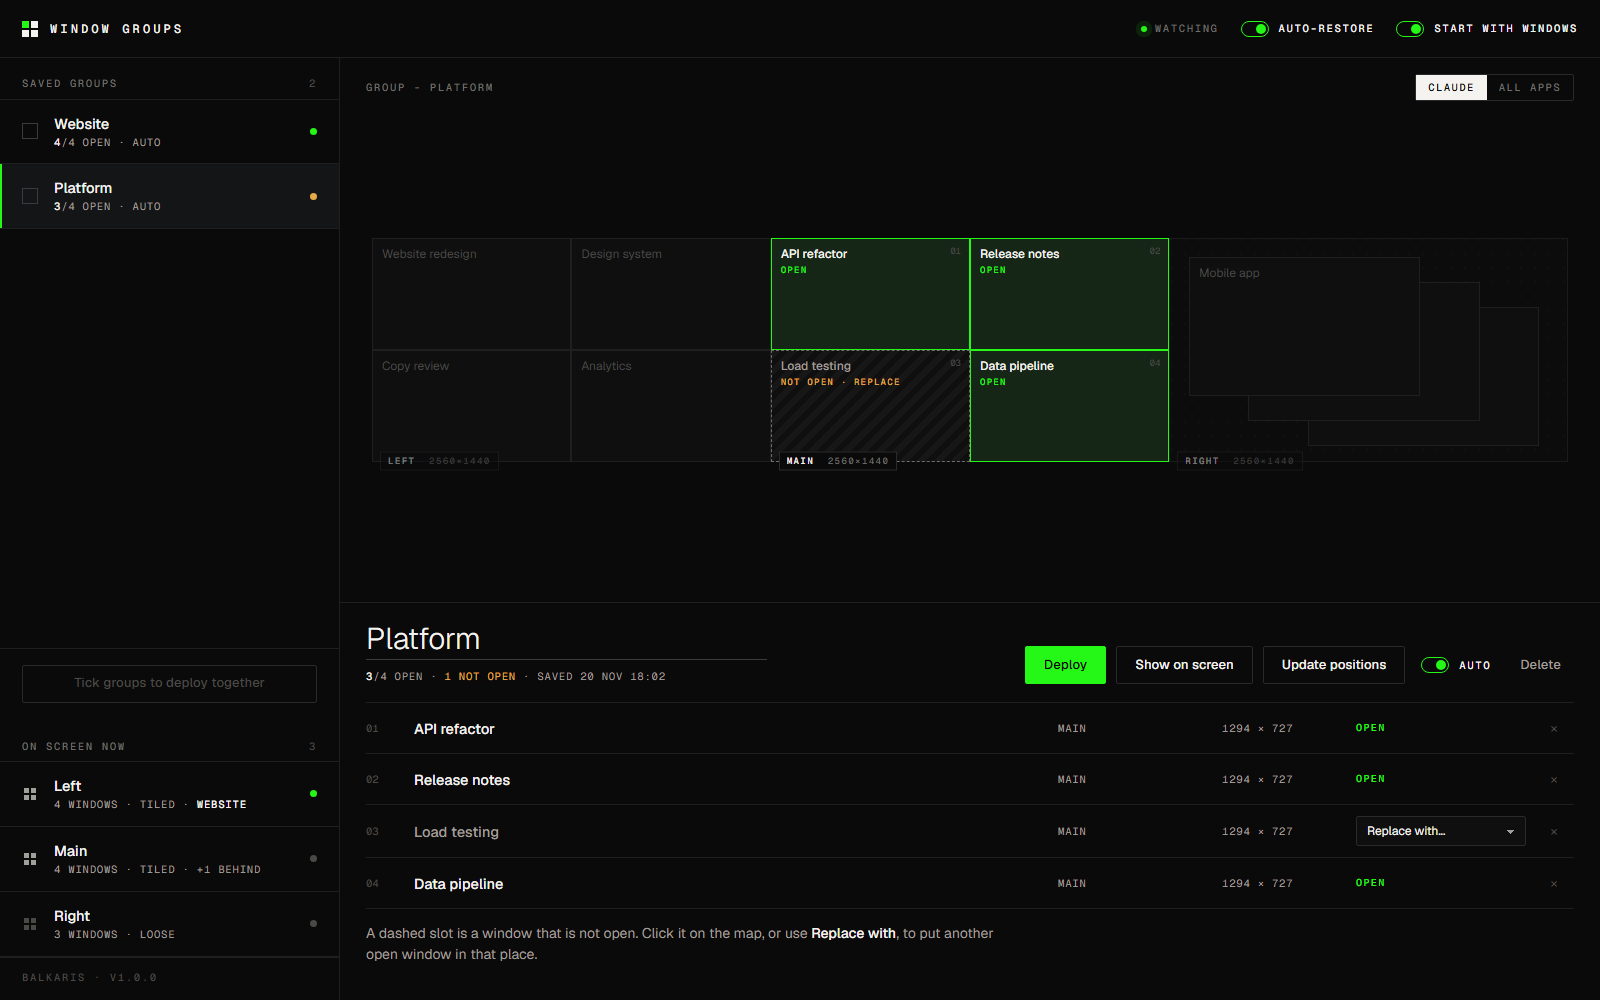
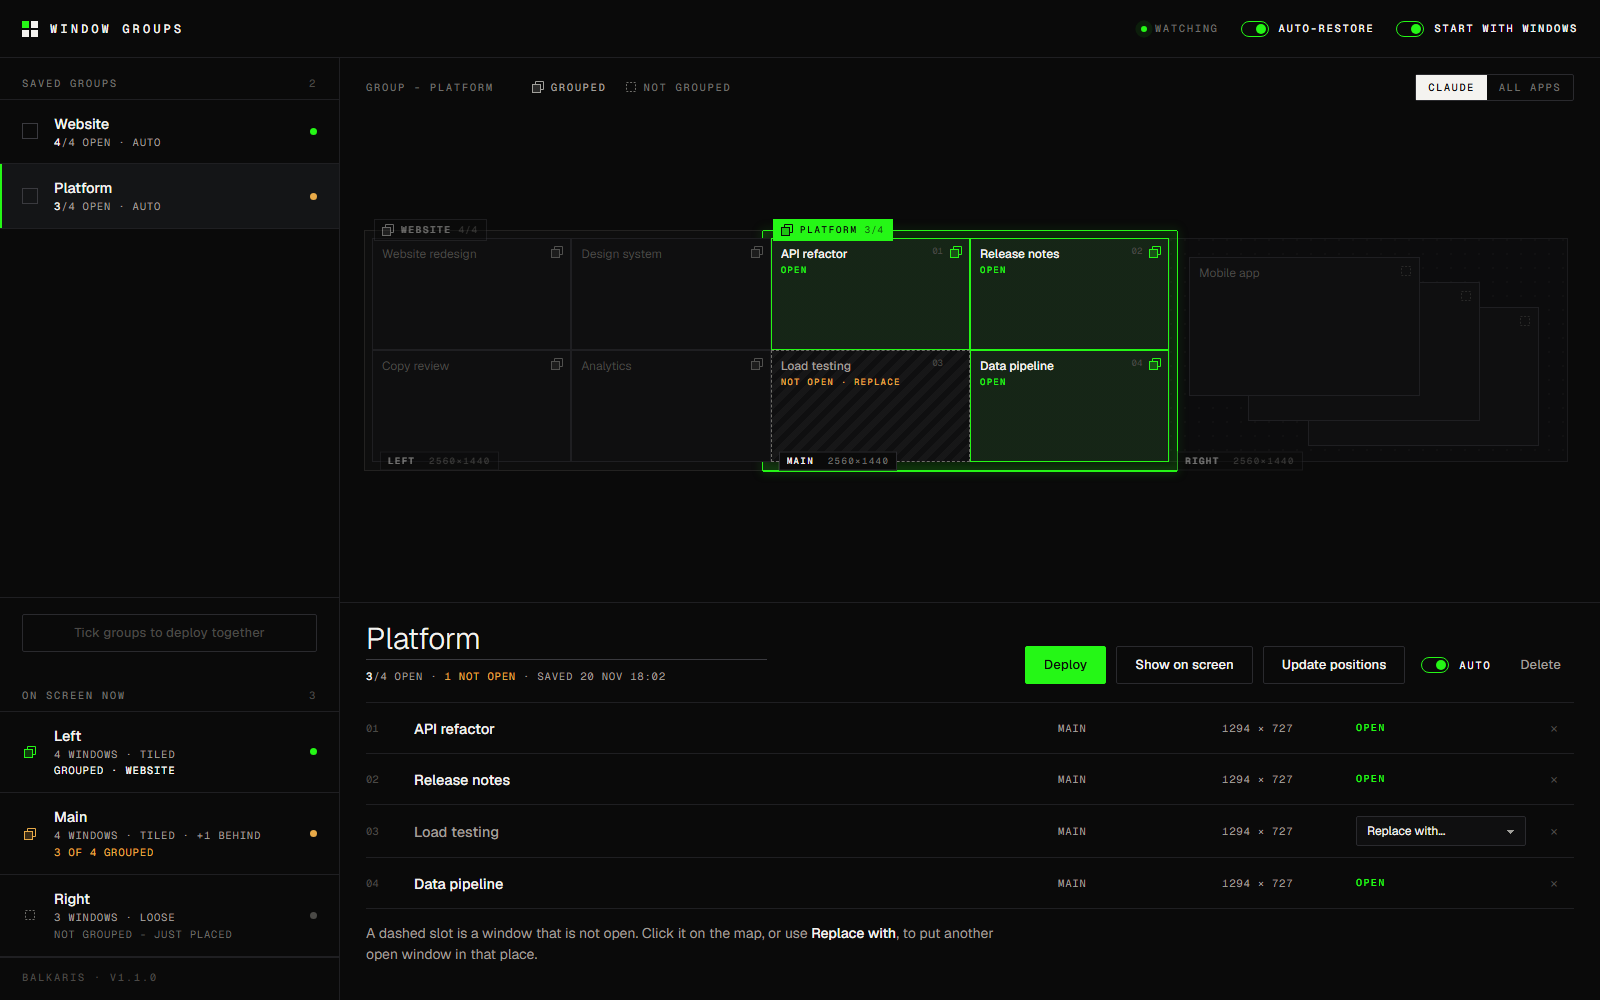
Show what is grouped and what is just placed
Every saved group now gets a layer on the map: a frame that follows the exact outline of
its windows, with the group's name on it. A bounding box was tried first and rejected - it
swallowed a window sitting between two members and made it look grouped. Each window
carries an icon, grouped or not grouped, and On screen now says it in words.

Selecting a group, selecting the screen it is on, or hovering it in the list lights its
layer up; everything else steps back. A group's name tag on the map opens it.

The lists no longer rewrite themselves on every two-second refresh unless something
changed - that destroyed hover states and could swallow a click.

diff --git a/src/ui/index.html b/src/ui/index.html
@@ -156,7 +156,40 @@
   .tile.missing .t { color: var(--mute); }
   .tile.missing .s { color: var(--amber); }
   .tile.missing:hover { border-color: var(--amber); }
-  .tile .n { position: absolute; right: 8px; top: 8px; font: 500 9px/1 var(--mono); color: var(--mute-3); }
+  .tile .n { position: absolute; right: 26px; top: 8px; font: 500 9px/1 var(--mono); color: var(--mute-3); }
+  .tile .t { padding-right: 16px; }
+
+  /* grouped / not grouped */
+  .ico { width: 12px; height: 12px; flex: none; display: inline-block; vertical-align: -2px; }
+  .gi { position: absolute; right: 7px; top: 7px; line-height: 0; color: var(--mute-3); }
+  .gi.g { color: var(--mute); }
+  .tile.on .gi.g, .tile.hl .gi.g { color: var(--signal); }
+  .tile.hl { border-color: rgba(37,247,22,.55); }
+  .tile.loose .s { color: var(--mute-3); }
+  .tile.ghost .gi { opacity: .45; }
+
+  /* the group layer: one frame behind all of a group's windows on a screen */
+  .layers { position: absolute; inset: 0; width: 100%; height: 100%; pointer-events: none; overflow: visible; }
+  .layers .lf { fill: rgba(244,243,240,.07); shape-rendering: crispEdges; }
+  .layers .le { fill: none; stroke: #5d5c57; stroke-width: 1; shape-rendering: crispEdges; }
+  .layers .on .lf { fill: rgba(37,247,22,.11); }
+  .layers .on .le { stroke: var(--signal); stroke-width: 1.5; filter: drop-shadow(0 0 5px rgba(37,247,22,.5)); }
+  .layers .dim { opacity: .3; }
+  .gl { position: absolute; z-index: 6; transform: translateY(-50%); display: inline-flex; align-items: center; gap: 7px;
+        padding: 4px 8px 4px 7px; background: var(--ink); border: 1px solid var(--line-3);
+        font: 500 9.5px/1 var(--mono); letter-spacing: .16em; text-transform: uppercase; color: var(--paper); white-space: nowrap; cursor: pointer; }
+  .gl:hover { border-color: var(--mute); }
+  .gl i { font-style: normal; color: var(--mute-2); letter-spacing: .08em; }
+  .gl.on { background: var(--signal); border-color: var(--signal); color: var(--ink); }
+  .gl.on i { color: rgba(10,10,10,.6); }
+  .gl.dim { opacity: .4; }
+
+  .state { width: 16px; display: grid; place-items: center; color: var(--mute-2); }
+  .state.g { color: var(--signal); }
+  .state.p { color: var(--amber); }
+  .legend { display: flex; gap: 18px; margin-left: 22px; }
+  .lg { display: inline-flex; align-items: center; gap: 7px; color: var(--mute-2); }
+  .lg.g { color: var(--mute); }
   .empty-stage { position: absolute; inset: 0; display: grid; place-items: center; color: var(--mute-2); }
 
   /* ---------- detail */
@@ -227,6 +260,7 @@
     <main>
       <div class="bar">
         <span class="cap" id="viewLabel">Everything on screen</span>
+        <span class="legend cap"><span class="lg g" id="lgG"></span><span class="lg" id="lgU"></span></span>
         <div class="spacer"></div>
         <div class="seg" id="scope"><button data-s="claude">Claude</button><button data-s="all">All apps</button></div>
       </div>
@@ -251,6 +285,21 @@ let scopeTouched = !!localStorage.getItem("wg.scope");
 const picked = new Set();           // handles picked in the live view
 const ticked = new Set(JSON.parse(localStorage.getItem("wg.ticked") || "[]"));
 let pop = null;
+let hoverGroup = null;              // group row under the mouse: lit up on the map
+
+// Grouped: two stacked frames, the front one filled. Not grouped: one dashed frame.
+const ICON_GROUPED = '<svg class="ico" viewBox="0 0 12 12" aria-hidden="true"><path d="M3.5 3V.5h8v8H9" fill="none" stroke="currentColor"/><rect x=".5" y="3.5" width="8" height="8" fill="currentColor" fill-opacity=".22" stroke="currentColor"/></svg>';
+const ICON_LOOSE = '<svg class="ico" viewBox="0 0 12 12" aria-hidden="true"><rect x="1.5" y="1.5" width="9" height="9" fill="none" stroke="currentColor" stroke-dasharray="2 1.6"/></svg>';
+
+// Which saved groups each open window belongs to.
+function membership() {
+  const m = new Map();
+  for (const g of S.groups) for (const s of g.slots) if (s.open && s.h) {
+    if (!m.has(s.h)) m.set(s.h, []);
+    m.get(s.h).push(g);
+  }
+  return m;
+}
 
 // ------------------------------------------------------------------ server
 async function getState() {
@@ -372,6 +421,7 @@ function renderGroups() {
 function renderDetected() {
   const el = $("#detected");
   const ds = detectedInScope();
+  const mem = membership();
   $("#dCount").textContent = ds.length || "";
   if (!ds.length) {
     setHTML(el, '<div style="padding:0 22px 16px" class="hint">No screen has two or more ' + (scope === "all" ? "" : "Claude ") + 'windows on it right now.</div>');
@@ -379,14 +429,87 @@ function renderDetected() {
   }
   setHTML(el, ds.map(d => {
     const sel = view.kind === "detected" && view.mon === d.mon;
+    const k = d.handles.filter(h => mem.has(h)).length, all = d.handles.length;
+    const st = d.savedAs || k === all ? "g" : k > 0 ? "p" : "u";
+    const said = d.savedAs ? 'Grouped &middot; <b>' + esc(d.savedAs) + '</b>'
+               : k === all ? 'Grouped' : k > 0 ? k + ' of ' + all + ' grouped' : 'Not grouped - just placed';
     return '<div class="row' + (sel ? " sel" : "") + '" data-mon="' + d.mon + '">' +
-      '<div class="glyph' + (d.tiled ? " tiled" : "") + '"><i></i><i></i><i></i><i></i></div>' +
+      '<div class="state ' + st + '">' + (st === "u" ? ICON_LOOSE : ICON_GROUPED) + '</div>' +
       '<div style="min-width:0"><div class="name">' + esc(d.monName) + '</div>' +
-      '<div class="meta">' + plural(d.handles.length, "window") + ' &middot; ' + (d.tiled ? "tiled" : "loose") +
-      (d.behind ? ' &middot; +' + d.behind + ' behind' : '') +
-      (d.savedAs ? ' &middot; <b>' + esc(d.savedAs) + '</b>' : '') + '</div></div>' +
-      '<div class="dot' + (d.savedAs ? " all" : "") + '"></div></div>';
+      '<div class="meta">' + plural(all, "window") + ' &middot; ' + (d.tiled ? "tiled" : "loose") +
+      (d.behind ? ' &middot; +' + d.behind + ' behind' : '') + '</div>' +
+      '<div class="meta" style="color:' + (st === "g" ? "var(--paper)" : st === "p" ? "var(--amber)" : "var(--mute-2)") + '">' + said + '</div></div>' +
+      '<div class="dot' + (st === "g" ? " all" : st === "p" ? " some" : "") + '"></div></div>';
   }).join(""));
+}
+
+// The group layer: a frame drawn BEHIND all of a group's windows, one per screen it covers,
+// with the group's name on it - so a group reads as one thing, and windows that are merely
+// placed next to each other plainly do not have one. The selected group's layer is drawn from
+// its saved slots (including any that are not open); every other group's from where its
+// windows actually are.
+function groupLayers(g, active, dimOthers) {
+  const pad = 8;
+  let paths = "", labels = "";
+  for (const gr of S.groups) {
+    const rects = [];
+    const fromSlots = view.kind === "group" && view.id === gr.id;
+    for (const sl of gr.slots) {
+      let r = null;
+      if (fromSlots) r = { mon: sl.mon, x: sl.x + 7, y: sl.y, w: sl.w - 14, h: sl.h2 - 7 };
+      else if (sl.open) {
+        const w = winByH(sl.h);
+        if (w && !w.min && (scope === "all" || w.claude)) r = { mon: w.mon, x: w.vx, y: w.vy, w: w.vw, h: w.vh };
+      }
+      if (r) rects.push({ mon: r.mon, l: g.X(r.x) - pad, t: g.Y(r.y) - pad, r: g.X(r.x + r.w) + pad, b: g.Y(r.y + r.h) + pad });
+    }
+    if (!rects.length) continue;
+    const on = active.has(gr.id), dim = dimOthers && !on;
+    const cls = (on ? "on" : "") + (dim ? " dim" : "");
+    const u = unionOutline(rects);
+    paths += '<g class="' + cls + '"><path class="lf" d="' + u.fill + '"/><path class="le" d="' + u.edges + '"/></g>';
+    // one name tag per screen the group covers, on its top-left window
+    const firsts = new Map();
+    for (const r of rects) {
+      const f = firsts.get(r.mon);
+      if (!f || r.t < f.t - 2 || (Math.abs(r.t - f.t) <= 2 && r.l < f.l)) firsts.set(r.mon, r);
+    }
+    for (const r of firsts.values())
+      labels += '<span class="gl ' + cls + '" data-gsel="' + esc(gr.id) + '" title="Open this group" style="left:' + (r.l + 10).toFixed(1) + 'px;top:' + r.t.toFixed(1) + 'px">' +
+                ICON_GROUPED + esc(gr.name) + ' <i>' + gr.open + '/' + gr.slots.length + '</i></span>';
+  }
+  return { html: paths ? '<svg class="layers">' + paths + '</svg>' : "", labels };
+}
+
+// The exact outline of a set of overlapping rectangles. A bounding box around a group would
+// swallow a window that merely sits between two of its members and make it look grouped; the
+// layer has to follow the group's windows and nothing else. Every rectangle edge cuts the plane
+// into a small grid, each cell is in or out, and an outline edge is wherever an "in" cell meets
+// an "out" one. A dozen windows make a few hundred cells - nothing.
+function unionOutline(rects) {
+  const xs = [...new Set(rects.flatMap(r => [r.l, r.r]))].sort((a, b) => a - b);
+  const ys = [...new Set(rects.flatMap(r => [r.t, r.b]))].sort((a, b) => a - b);
+  const cells = [];
+  for (let i = 0; i < xs.length - 1; i++) {
+    cells.push([]);
+    for (let j = 0; j < ys.length - 1; j++) {
+      const cx = (xs[i] + xs[i + 1]) / 2, cy = (ys[j] + ys[j + 1]) / 2;
+      cells[i].push(rects.some(r => cx > r.l && cx < r.r && cy > r.t && cy < r.b));
+    }
+  }
+  const inside = (i, j) => i >= 0 && j >= 0 && i < cells.length && j < cells[0].length && cells[i][j];
+  const f = v => v.toFixed(1);
+  let fill = "", edges = "";
+  for (let i = 0; i < cells.length; i++) for (let j = 0; j < cells[i].length; j++) {
+    if (!cells[i][j]) continue;
+    const x1 = f(xs[i]), x2 = f(xs[i + 1]), y1 = f(ys[j]), y2 = f(ys[j + 1]);
+    fill += "M" + x1 + " " + y1 + "H" + x2 + "V" + y2 + "H" + x1 + "Z";
+    if (!inside(i - 1, j)) edges += "M" + x1 + " " + y1 + "V" + y2;
+    if (!inside(i + 1, j)) edges += "M" + x2 + " " + y1 + "V" + y2;
+    if (!inside(i, j - 1)) edges += "M" + x1 + " " + y1 + "H" + x2;
+    if (!inside(i, j + 1)) edges += "M" + x1 + " " + y2 + "H" + x2;
+  }
+  return { fill, edges };
 }
 
 // The map: every screen to scale, windows drawn where they really are.
@@ -401,16 +524,23 @@ function geometry() {
   return { s, X: x => ox + (x - minX) * s, Y: y => oy + (y - minY) * s };
 }
 
-function tileHtml(cls, g, x, y, w, h, title, sub, attrs, n) {
+function tileHtml(cls, g, x, y, w, h, title, sub, attrs, n, mark) {
   const W = Math.max(14, w * g.s), H = Math.max(14, h * g.s);
   const small = W < 90 || H < 46;
   return '<div class="tile ' + cls + '" ' + (attrs || "") + ' style="left:' + g.X(x).toFixed(1) + 'px;top:' + g.Y(y).toFixed(1) +
     'px;width:' + W.toFixed(1) + 'px;height:' + H.toFixed(1) + 'px">' +
+    (mark && W >= 26 ? '<span class="gi ' + mark + '" title="' + (mark === "g" ? "In a saved group" : "Not in any group") + '">' + (mark === "g" ? ICON_GROUPED : ICON_LOOSE) + '</span>' : '') +
     (n ? '<span class="n">' + n + '</span>' : '') +
     (small ? '' : '<div class="t">' + esc(title) + '</div>' + (sub ? '<div class="s">' + sub + '</div>' : '')) + '</div>';
 }
 
+function renderLegend() {
+  setHTML($("#lgG"), ICON_GROUPED + "Grouped");
+  setHTML($("#lgU"), ICON_LOOSE + "Not grouped");
+}
+
 function renderStage() {
+  renderLegend();
   const c = $("#canvas");
   if (!S.monitors.length) { setHTML(c, ""); return; }
   const g = geometry();
@@ -426,29 +556,48 @@ function renderStage() {
   }
 
   const wins = winsInScope().filter(w => !w.min).sort((a, b) => b.z - a.z);   // bottom of the stack drawn first
+  const mem = membership();
+  const names = h => esc((mem.get(h) || []).map(x => x.name).join(" / "));
+
+  // Which group is lit: the one selected, the one whose screen is selected, the one hovered.
+  const active = new Set();
+  if (view.kind === "group") active.add(view.id);
+  if (view.kind === "detected") {
+    const d = detectedInScope().find(x => x.mon === view.mon);
+    const gr = d && d.savedAs && S.groups.find(x => x.name === d.savedAs);
+    if (gr) active.add(gr.id);
+  }
+  if (hoverGroup) active.add(hoverGroup);
+  const L = groupLayers(g, active, view.kind === "group");
+  html += L.html; labels += L.labels;
+
   if (view.kind === "live") {
     for (const w of wins) {
-      const on = picked.has(w.h);
-      html += tileHtml("pick" + (on ? " on" : ""), g, w.vx, w.vy, w.vw, w.vh, w.title, on ? "picked" : (w.max ? "maximized" : ""), 'data-pick="' + w.h + '"');
+      const on = picked.has(w.h), gs = mem.get(w.h);
+      const lit = gs && gs.some(x => active.has(x.id));
+      const sub = on ? "picked" : gs ? names(w.h) : (w.max ? "maximized &middot; not grouped" : "not grouped");
+      html += tileHtml("pick" + (on ? " on" : "") + (lit ? " hl" : "") + (gs ? "" : " loose"), g, w.vx, w.vy, w.vw, w.vh, w.title, sub,
+                       'data-pick="' + w.h + '"', null, gs ? "g" : "u");
     }
   } else if (view.kind === "detected") {
     const d = detectedInScope().find(x => x.mon === view.mon);
     const set = new Set(d ? d.handles : []);
     for (const w of wins) {
-      if (set.has(w.h)) html += tileHtml("on", g, w.vx, w.vy, w.vw, w.vh, w.title, "open", "");
-      else html += tileHtml("ghost", g, w.vx, w.vy, w.vw, w.vh, w.title, "", "");
+      const gs = mem.get(w.h);
+      if (set.has(w.h)) html += tileHtml("on" + (gs ? "" : " loose"), g, w.vx, w.vy, w.vw, w.vh, w.title, gs ? names(w.h) : "not grouped", "", null, gs ? "g" : "u");
+      else html += tileHtml("ghost", g, w.vx, w.vy, w.vw, w.vh, w.title, "", "", null, gs ? "g" : "u");
     }
   } else if (view.kind === "group") {
     const gr = S.groups.find(x => x.id === view.id);
     const used = new Set(gr ? gr.slots.filter(s => s.open).map(s => s.h) : []);
-    for (const w of wins) if (!used.has(w.h)) html += tileHtml("ghost", g, w.vx, w.vy, w.vw, w.vh, w.title, "", "");
+    for (const w of wins) if (!used.has(w.h)) html += tileHtml("ghost", g, w.vx, w.vy, w.vw, w.vh, w.title, "", "", null, mem.has(w.h) ? "g" : "u");
     if (gr) {
       const order = gr.slots.slice().sort((a, b) => b.z - a.z);
       for (const s of order) {
         const n = String(s.i + 1).padStart(2, "0");
         // a slot's rect includes the invisible 7px resize border; draw the visible part
         const x = s.x + 7, y = s.y, w = s.w - 14, h = s.h2 - 7;
-        if (s.open) html += tileHtml("on", g, x, y, w, h, s.title, "open", 'data-slot="' + s.i + '"', n);
+        if (s.open) html += tileHtml("on", g, x, y, w, h, s.title, "open", 'data-slot="' + s.i + '"', n, "g");
         else html += tileHtml("missing", g, x, y, w, h, s.title, "not open &middot; replace", 'data-miss="' + s.i + '"', n);
       }
     }
@@ -463,7 +612,10 @@ function renderDetail() {
     const n = picked.size;
     setHTML(el,
       '<div class="dhead"><div><div class="dtitle">' + (n ? plural(n, "window") + " picked" : "Pick windows on the map") + '</div>' +
-      '<div class="dmeta meta">' + plural(winsInScope().length, "window") + ' open &middot; ' + plural(S.monitors.length, "screen") + '</div></div>' +
+      '<div class="dmeta meta">' + plural(winsInScope().length, "window") + ' open &middot; ' +
+        (() => { const mem = membership(); const k = winsInScope().filter(w => mem.has(w.h)).length;
+                 return '<b>' + k + '</b> grouped &middot; ' + (winsInScope().length - k) + ' not grouped'; })() +
+        ' &middot; ' + plural(S.monitors.length, "screen") + '</div></div>' +
       '<div class="actions">' +
         (n ? '<input id="newName" class="btn" style="width:220px;cursor:text" placeholder="Name this group" autocomplete="off">' : '') +
         '<button class="btn primary" id="savePicked"' + (n ? "" : " disabled") + '>Save as group</button>' +
@@ -542,6 +694,13 @@ $("#groups").addEventListener("dblclick", e => {
   const r = e.target.closest("[data-id]");
   if (r && !e.target.closest("[data-tick]")) run("deploy", { ids: [r.getAttribute("data-id")] });
 });
+$("#groups").addEventListener("mouseover", e => {
+  const r = e.target.closest("[data-id]");
+  const id = r ? r.getAttribute("data-id") : null;
+  if (id !== hoverGroup) { hoverGroup = id; renderStage(); }
+});
+$("#groups").addEventListener("mouseleave", () => { if (hoverGroup) { hoverGroup = null; renderStage(); } });
+
 $("#detected").addEventListener("click", e => {
   const r = e.target.closest("[data-mon]");
   if (r) { view = { kind: "detected", mon: +r.getAttribute("data-mon") }; closePop(); render(); }
@@ -559,6 +718,8 @@ $("#swAuto").addEventListener("click", () => run("setting", { key: "autoRestore"
 $("#swStart").addEventListener("click", () => run("setting", { key: "startWithWindows", value: !S.settings.startWithWindows }));
 
 $("#canvas").addEventListener("click", e => {
+  const gl = e.target.closest("[data-gsel]");
+  if (gl) { view = { kind: "group", id: gl.getAttribute("data-gsel") }; closePop(); render(); return; }
   const p = e.target.closest("[data-pick]");
   if (p) { const h = p.getAttribute("data-pick"); picked.has(h) ? picked.delete(h) : picked.add(h); render(); return; }
   const m = e.target.closest("[data-miss]");

diff --git a/tools/demo_server.py b/tools/demo_server.py
@@ -30,7 +30,7 @@ for g in G: g["open"] = sum(s["open"] for s in g["slots"])
 D = [dict(mon=0, monName="Left", tiled=True, coverage=1, behind=0, handles=[w["h"] for w in W if w["mon"] == 0], savedAs="Website"),
      dict(mon=1, monName="Main", tiled=True, coverage=1, behind=1, handles=[w["h"] for w in W if w["mon"] == 1], savedAs=None),
      dict(mon=2, monName="Right", tiled=False, coverage=.7, behind=0, handles=[w["h"] for w in W if w["mon"] == 2], savedAs=None)]
-STATE = dict(monitors=M, windows=W, groups=G, detected=D, detectedAll=D, settings=dict(autoRestore=True, startWithWindows=True), claudeFound=True, version="1.0.0")
+STATE = dict(monitors=M, windows=W, groups=G, detected=D, detectedAll=D, settings=dict(autoRestore=True, startWithWindows=True), claudeFound=True, version="1.1.0")
 class H(http.server.BaseHTTPRequestHandler):
     def send(self, code, body, ct):
         b = body.encode(); self.send_response(code); self.send_header("Content-Type", ct); self.send_header("Content-Length", str(len(b))); self.end_headers(); self.wfile.write(b)

diff --git a/src/WindowGroups.cs b/src/WindowGroups.cs
@@ -38,8 +38,8 @@ using Microsoft.Win32;
 [assembly: AssemblyDescription("Save window layouts. Bring them back.")]
 [assembly: AssemblyProduct("Window Groups")]
 [assembly: AssemblyCopyright("MIT License")]
-[assembly: AssemblyVersion("1.0.0.0")]
-[assembly: AssemblyFileVersion("1.0.0.0")]
+[assembly: AssemblyVersion("1.1.0.0")]
+[assembly: AssemblyFileVersion("1.1.0.0")]
 
 namespace WindowGroups
 {
@@ -1076,7 +1076,7 @@ namespace WindowGroups
             res["detected"] = detected(true);
             res["detectedAll"] = detected(false);
             res["claudeFound"] = wins.Any(w => w.IsClaude) || titles.Count > 0;
-            res["version"] = "1.0.0";
+            res["version"] = "1.1.0";
             return res;
         }
 

diff --git a/README.md b/README.md
@@ -18,6 +18,11 @@ other app's windows too.
 - **Detects layouts.** Every screen with two or more windows on it shows up under *On screen
   now*, named by where the screen sits ("Top left", "Main", "Far right"). Only what you can
   actually see counts - a window hidden behind others is left out. One click saves it.
+- **Shows what is grouped and what is just placed.** Every saved group gets a layer on the map -
+  a frame that follows its windows exactly, with the group's name on it - and every window
+  carries an icon: two stacked frames for grouped, one dashed frame for not grouped. A window
+  that merely sits between two members stays outside the layer. Hover or select a group and its
+  layer lights up; *On screen now* says it in words: *Grouped*, *2 of 4 grouped*, *Not grouped*.
 - **Saves any set.** Or pick windows straight off the map, across as many screens as you like.
 - **Deploys.** Every window goes back to its saved place and size, and the saved top window
   ends on top. Tick several groups and deploy them together, or pick one from the tray menu.
